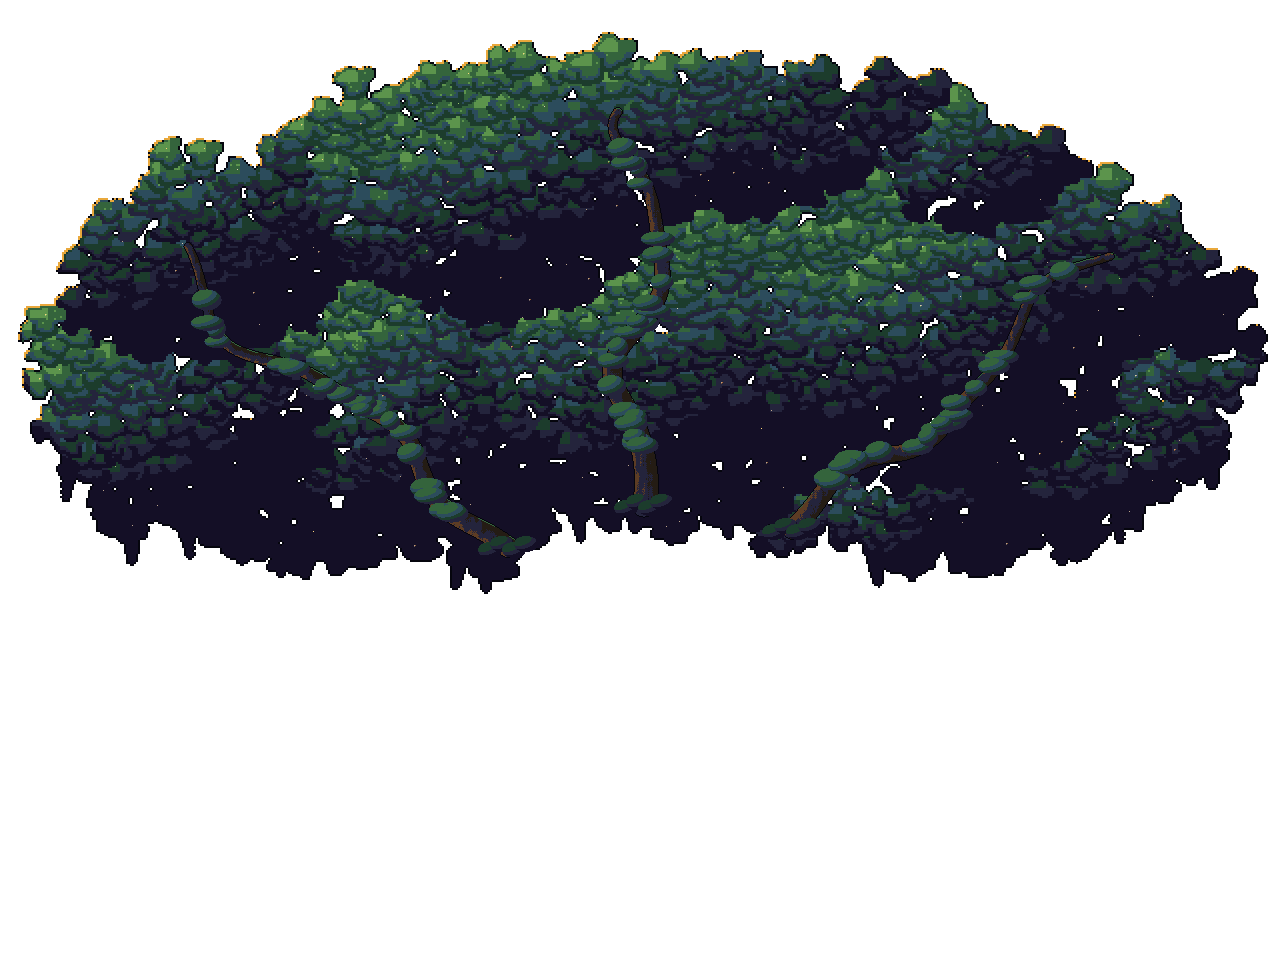
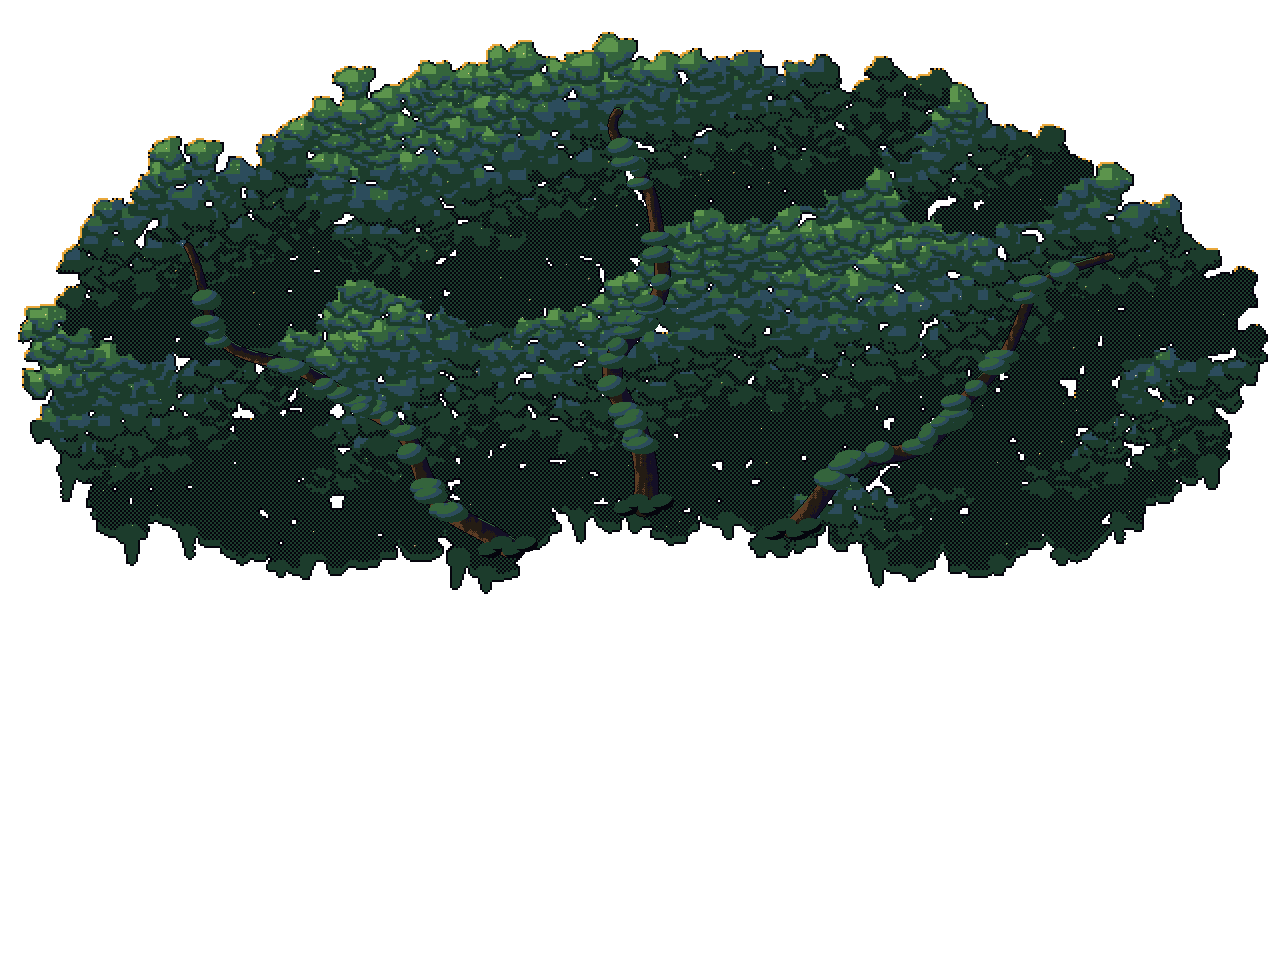
Memory Grove: the canopy's shade is green-black, not the sky's indigo
The crown's dark tones were Dread / Night, the same colours as the night sky, so its shade melted into the background. Shade is now Deepmoss, the deepest shade a Void/Deepmoss checker (dark green from afar), and the belly and drips Deepmoss; near-black stays for the outline.

Changed region(s): [[0.0312, 0.0625, 1.0, 0.625]]

diff --git a/Project_T/tools/meta_art/grove_gen.html b/Project_T/tools/meta_art/grove_gen.html
@@ -803,8 +803,8 @@ function grovesky() {
 // small leaf clusters, each one flat tone from the lobe under it with a lit tip and a dark rim along
 // its bottom, upper clusters overlapping lower ones. Drawn at half resolution and scaled up 2×.
 // The night greens (colours unchanged), seven tiers.
-// The crown: indigo night in the shadows and the belly, cold moonlit Pool, then Moss where the light reaches.
-const CROWN_P = [HW.Void, HW.Dread, HW.Night, HW.Deepmoss, HW.Pool, HW.Moss, HW.Leaf];
+// The crown: green-black in the shadows and the belly (Dread / Night are the sky's colours, so the tree would melt into it), cold moonlit Pool, then Moss where the light reaches.
+const CROWN_P = [HW.Void, HW.Void, HW.Deepmoss, HW.Deepmoss, HW.Pool, HW.Moss, HW.Leaf];  // shade is green-black, never the sky's indigo
 const CROWN_PX = 2, CROWN_SEED = 970;
 // Stages grow the crown outward: the clusters over the limbs are always there, the edges fill in.
 const CROWN_SHARE = [.72, .8, .9, 1];
@@ -867,7 +867,7 @@ function groveCanopy(stage) {
   const bottomAt = x => { for (let y = Math.floor(H * .78); y > 0; y--) if (TIER[y * W + x] >= 0) return y; return -1; };
   for (let x = 0; x < W; x++) {
     const bottom = bottomAt(x); if (bottom < 0) continue;
-    for (let y = bottom - Math.floor(16 / s); y <= bottom; y++) if (y > 0 && TIER[y * W + x] >= 0) TIER[y * W + x] = y > bottom - 7 / s ? 1 : Math.min(TIER[y * W + x], 2);
+    for (let y = bottom - Math.floor(16 / s); y <= bottom; y++) if (y > 0 && TIER[y * W + x] >= 0) TIER[y * W + x] = y > bottom - 7 / s ? 2 : Math.min(TIER[y * W + x], 3);  // a dark green belly, not black
   }
   for (let X = 4; X < W; X += Math.round(30 / s)) {
     if (hash(X, 0, seed + 5) > .55) continue;
@@ -875,12 +875,14 @@ function groveCanopy(stage) {
     const w = (5 + hash(X, 1, seed + 5) * 6) / s, len = (8 + hash(X, 2, seed + 5) ** 2 * 44) / s;
     crownDrip(X, bottom - w * .5, len, w, X).forEach(([bx, by, rx, ry]) => {
       for (let y = Math.floor(by - ry); y <= by + ry; y++) for (let x = Math.floor(bx - rx); x <= bx + rx; x++)
-        if (x >= 0 && y >= 0 && x < W && y < H && ((x + .5 - bx) / rx) ** 2 + ((y + .5 - by) / ry) ** 2 <= 1) TIER[y * W + x] = 1;
+        if (x >= 0 && y >= 0 && x < W && y < H && ((x + .5 - bx) / rx) ** 2 + ((y + .5 - by) / ry) ** 2 <= 1) TIER[y * W + x] = 2;
     });
   }
   for (let y = 0; y < H; y++) for (let x = 0; x < W; x++) {
     const t = TIER[y * W + x]; if (t < 0) continue;
-    L.set(x, y, P[t === 5 && hash(x, y, seed + 6) < .03 ? 6 : t]);  // sparse bright sparks on the lit tops
+    // The deepest shade is a checker of near-black and Deepmoss, so it reads as leafy shadow (dark
+    // green from afar), never as the sky showing through.
+    L.set(x, y, t === 1 ? ((x + y) % 2 ? P[0] : P[2]) : P[t === 5 && hash(x, y, seed + 6) < .03 ? 6 : t]);  // sparse bright sparks on the lit tops
   }
   const small = new Img(W, H); small.stamp(L, P[0]);
   for (let y = 1; y < H - 1; y++) for (let x = 1; x < W - 1; x++)

diff --git a/Project_T/tools/meta_art/grove_tree.js b/Project_T/tools/meta_art/grove_tree.js
@@ -344,8 +344,8 @@ function grovesky() {
 // small leaf clusters, each one flat tone from the lobe under it with a lit tip and a dark rim along
 // its bottom, upper clusters overlapping lower ones. Drawn at half resolution and scaled up 2×.
 // The night greens (colours unchanged), seven tiers.
-// The crown: indigo night in the shadows and the belly, cold moonlit Pool, then Moss where the light reaches.
-const CROWN_P = [HW.Void, HW.Dread, HW.Night, HW.Deepmoss, HW.Pool, HW.Moss, HW.Leaf];
+// The crown: green-black in the shadows and the belly (Dread / Night are the sky's colours, so the tree would melt into it), cold moonlit Pool, then Moss where the light reaches.
+const CROWN_P = [HW.Void, HW.Void, HW.Deepmoss, HW.Deepmoss, HW.Pool, HW.Moss, HW.Leaf];  // shade is green-black, never the sky's indigo
 const CROWN_PX = 2, CROWN_SEED = 970;
 // Stages grow the crown outward: the clusters over the limbs are always there, the edges fill in.
 const CROWN_SHARE = [.72, .8, .9, 1];
@@ -408,7 +408,7 @@ function groveCanopy(stage) {
   const bottomAt = x => { for (let y = Math.floor(H * .78); y > 0; y--) if (TIER[y * W + x] >= 0) return y; return -1; };
   for (let x = 0; x < W; x++) {
     const bottom = bottomAt(x); if (bottom < 0) continue;
-    for (let y = bottom - Math.floor(16 / s); y <= bottom; y++) if (y > 0 && TIER[y * W + x] >= 0) TIER[y * W + x] = y > bottom - 7 / s ? 1 : Math.min(TIER[y * W + x], 2);
+    for (let y = bottom - Math.floor(16 / s); y <= bottom; y++) if (y > 0 && TIER[y * W + x] >= 0) TIER[y * W + x] = y > bottom - 7 / s ? 2 : Math.min(TIER[y * W + x], 3);  // a dark green belly, not black
   }
   for (let X = 4; X < W; X += Math.round(30 / s)) {
     if (hash(X, 0, seed + 5) > .55) continue;
@@ -416,12 +416,14 @@ function groveCanopy(stage) {
     const w = (5 + hash(X, 1, seed + 5) * 6) / s, len = (8 + hash(X, 2, seed + 5) ** 2 * 44) / s;
     crownDrip(X, bottom - w * .5, len, w, X).forEach(([bx, by, rx, ry]) => {
       for (let y = Math.floor(by - ry); y <= by + ry; y++) for (let x = Math.floor(bx - rx); x <= bx + rx; x++)
-        if (x >= 0 && y >= 0 && x < W && y < H && ((x + .5 - bx) / rx) ** 2 + ((y + .5 - by) / ry) ** 2 <= 1) TIER[y * W + x] = 1;
+        if (x >= 0 && y >= 0 && x < W && y < H && ((x + .5 - bx) / rx) ** 2 + ((y + .5 - by) / ry) ** 2 <= 1) TIER[y * W + x] = 2;
     });
   }
   for (let y = 0; y < H; y++) for (let x = 0; x < W; x++) {
     const t = TIER[y * W + x]; if (t < 0) continue;
-    L.set(x, y, P[t === 5 && hash(x, y, seed + 6) < .03 ? 6 : t]);  // sparse bright sparks on the lit tops
+    // The deepest shade is a checker of near-black and Deepmoss, so it reads as leafy shadow (dark
+    // green from afar), never as the sky showing through.
+    L.set(x, y, t === 1 ? ((x + y) % 2 ? P[0] : P[2]) : P[t === 5 && hash(x, y, seed + 6) < .03 ? 6 : t]);  // sparse bright sparks on the lit tops
   }
   const small = new Img(W, H); small.stamp(L, P[0]);
   for (let y = 1; y < H - 1; y++) for (let x = 1; x < W - 1; x++)
